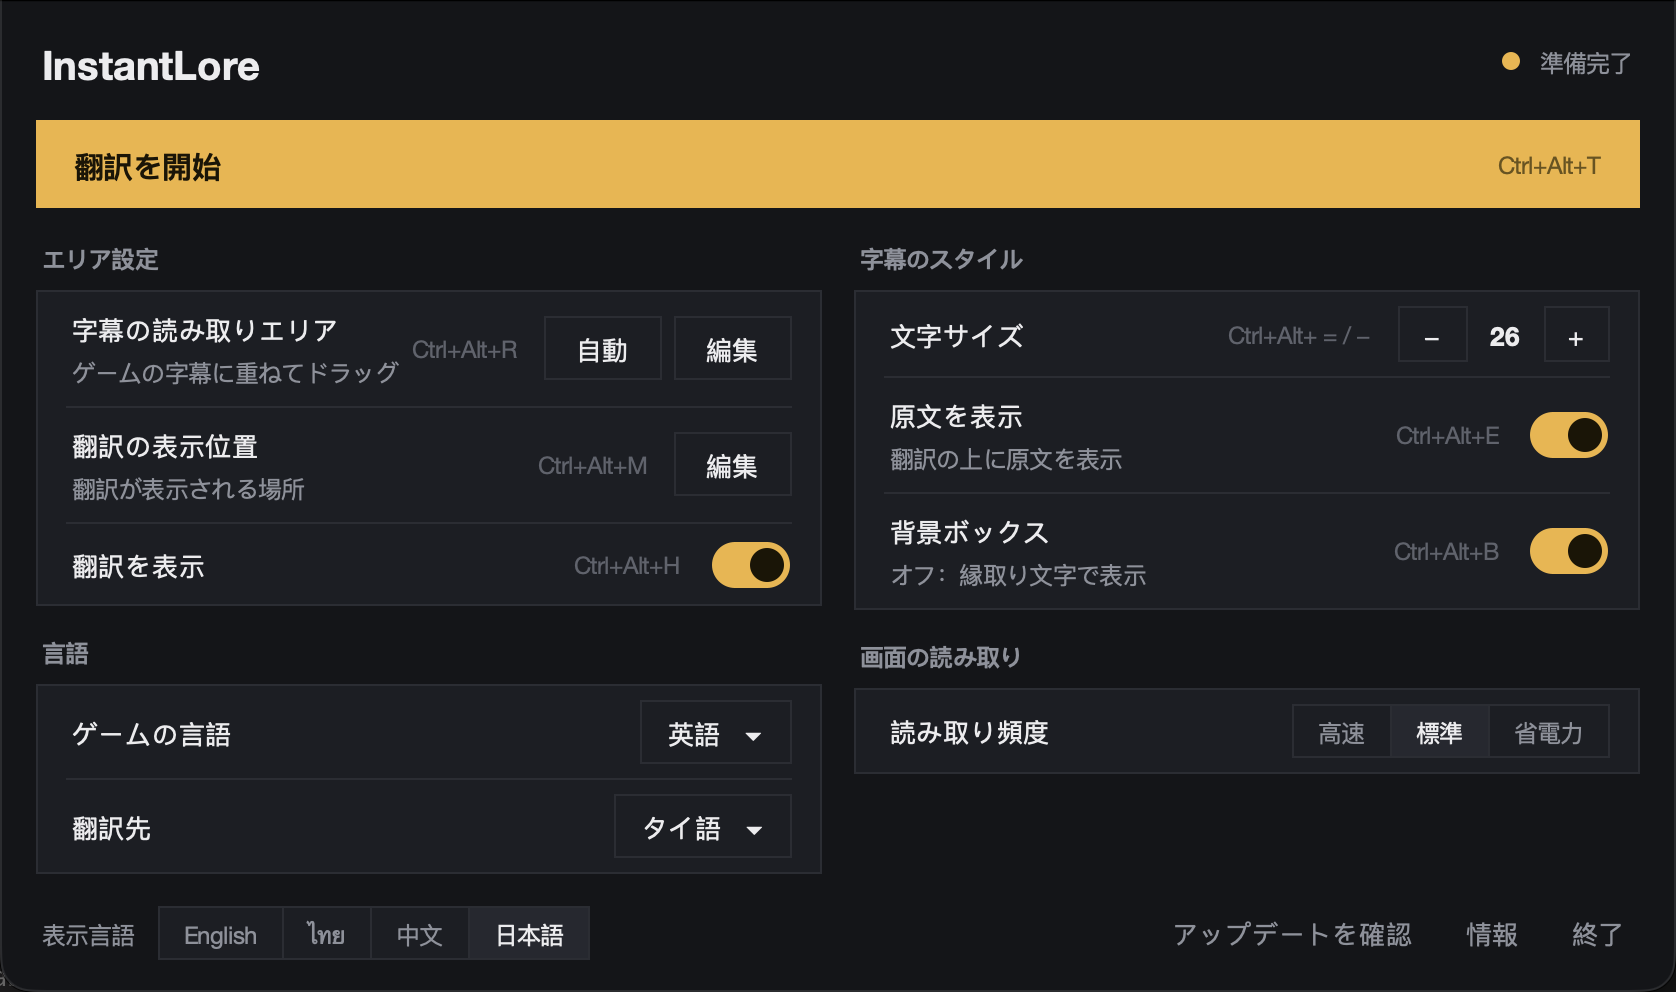
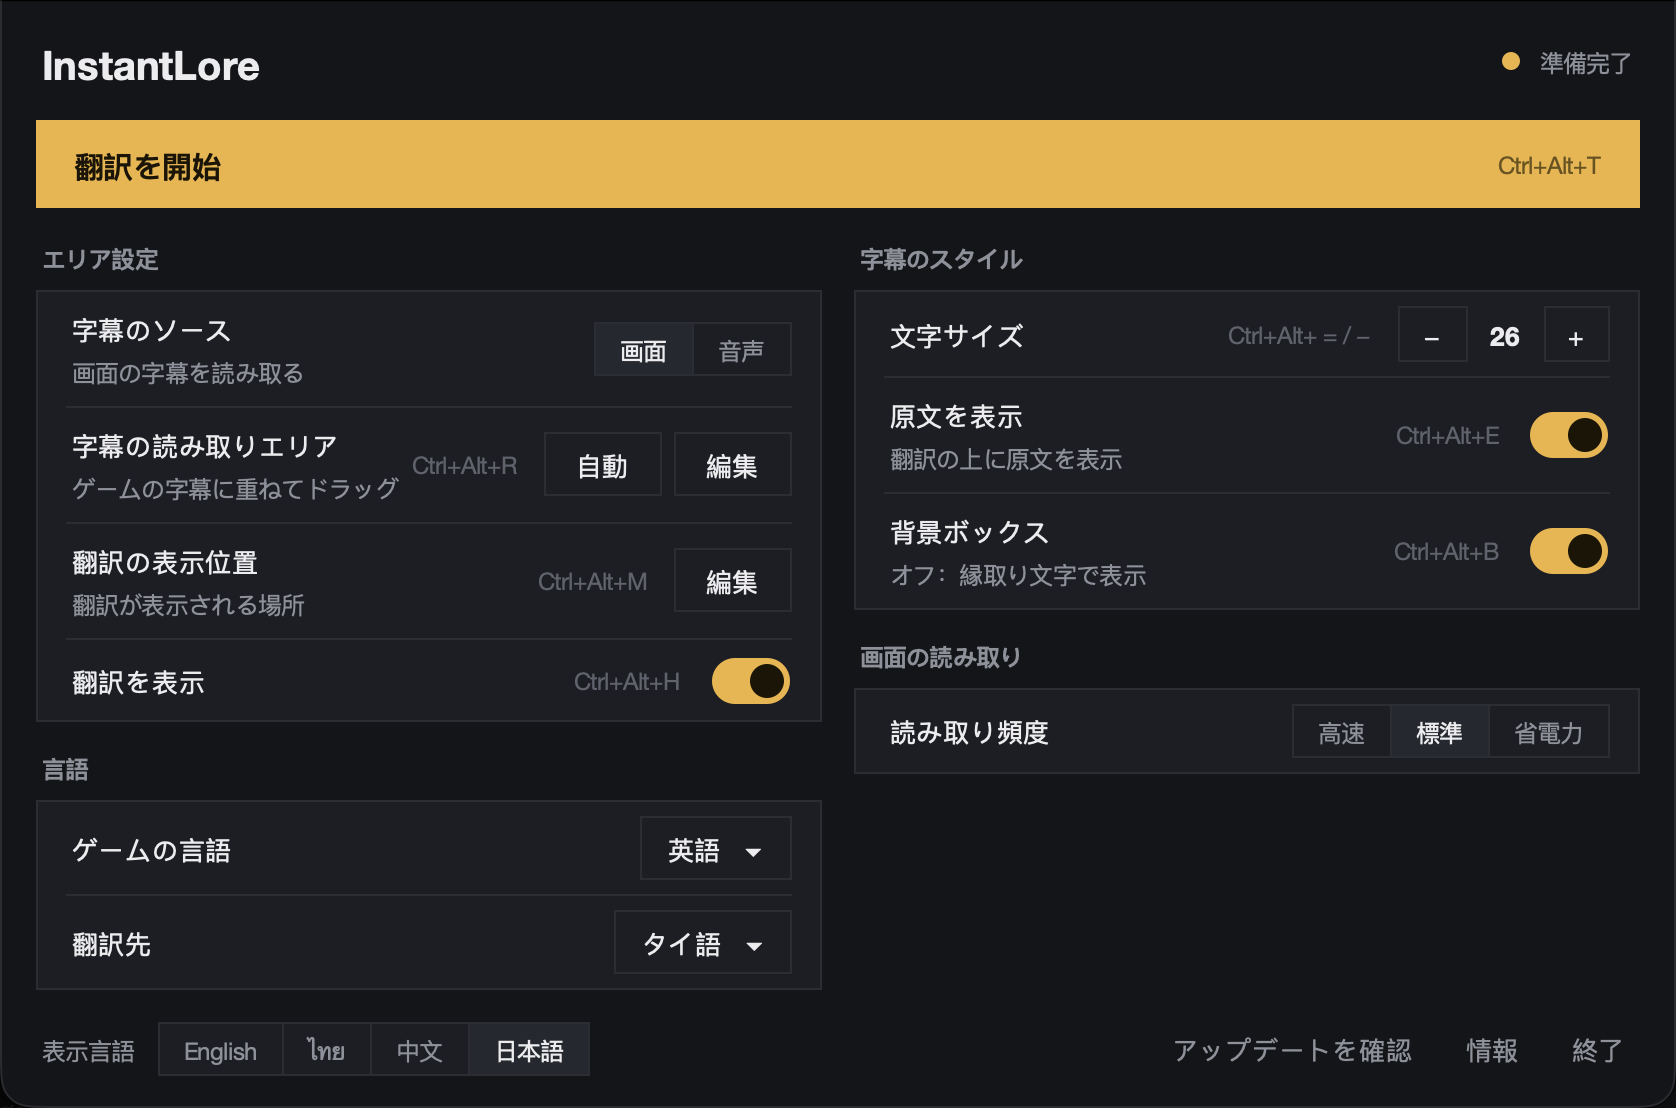
InstantLore 1.4.0: Listen mode via Windows 11 Live Captions
- New "Subtitles from: Screen / Listen" switch. Listen opens Windows
  Live Captions, reads its text through UI Automation, and translates
  each finished sentence (or a phrase after a 2 s pause)
- CaptionTracker skips sentences already translated, including ones
  Live Captions revises or keeps on screen
- Exe self-test now also loads UI Automation
- README: Listen mode section

diff --git a/mac/main.swift b/mac/main.swift
@@ -11,7 +11,7 @@ import Translation
 // MARK: - App info / languages
 
 let appName = "InstantLore"
-let appVersion = "1.3.1"
+let appVersion = "1.4.0"
 let developer = "Soulrose"
 
 /// code = รหัส Google, vision = ภาษาสำหรับ OCR ([] = ตรวจอัตโนมัติ), apple = รหัส Apple Translation (nil = ใช้ไม่ได้)

diff --git a/windows/instantlore.py b/windows/instantlore.py
@@ -24,7 +24,7 @@ from pathlib import Path
 
 IS_WIN = sys.platform == "win32"
 APP_NAME = "InstantLore"
-APP_VERSION = "1.3.1"
+APP_VERSION = "1.4.0"
 DEVELOPER = "Soulrose"
 REPO = "soulrose/instantlore"
 
@@ -126,6 +126,11 @@ STRINGS = {
         "st_reload": "Loading reader for {lang}…", "st_error": "Error: {e}",
         "st_ocr_fail": "Couldn't load the text reader: {e}",
         "st_no_keys": "Hotkeys unavailable, use this window",
+        "source": "Subtitles from", "source_hint_screen": "Reads the subtitles on screen", "source_hint_listen": "Listens to speech with Windows Live Captions",
+        "src_screen": "Screen", "src_listen": "Listen",
+        "st_listen": "Listening", "st_lc_start": "Starting Live Captions…",
+        "st_lc_missing": "Listen mode needs Windows 11 (22H2 or later) with Live Captions",
+        "st_lc_fail": "Couldn't read Live Captions: {e}",
         "box_keys": "Ctrl+Alt+arrows: move · Ctrl+Alt+Shift+arrows: resize",
         "st_black": "Can't see the game. Set it to Borderless or Windowed fullscreen",
         "box_region": "① Capture area: drag over the game's subtitles · Ctrl+Alt+R when done",
@@ -165,6 +170,11 @@ STRINGS = {
         "st_reload": "กำลังโหลดตัวอ่านภาษา{lang}…", "st_error": "ผิดพลาด: {e}",
         "st_ocr_fail": "โหลดตัวอ่านข้อความไม่ได้: {e}",
         "st_no_keys": "ปุ่มลัดใช้ไม่ได้ ใช้ปุ่มในหน้าต่างนี้แทน",
+        "source": "แปลจาก", "source_hint_screen": "อ่านซับที่ขึ้นบนจอ", "source_hint_listen": "ฟังเสียงพูดผ่าน Live Captions ของ Windows",
+        "src_screen": "จอ", "src_listen": "เสียง",
+        "st_listen": "กำลังฟัง", "st_lc_start": "กำลังเปิด Live Captions…",
+        "st_lc_missing": "โหมดฟังเสียงต้องใช้ Windows 11 (22H2 ขึ้นไป) ที่มี Live Captions",
+        "st_lc_fail": "อ่าน Live Captions ไม่ได้: {e}",
         "box_keys": "Ctrl+Alt+ลูกศร: เลื่อน · Ctrl+Alt+Shift+ลูกศร: ปรับขนาด",
         "st_black": "มองไม่เห็นเกม ให้ตั้งเกมเป็น Borderless หรือ Windowed fullscreen",
         "box_region": "① กล่องอ่านซับ: ลากครอบซับในเกม · กด Ctrl+Alt+R เมื่อเสร็จ",
@@ -203,6 +213,11 @@ STRINGS = {
         "st_reload": "正在加载{lang}识别…", "st_error": "错误：{e}",
         "st_ocr_fail": "无法加载文字识别：{e}",
         "st_no_keys": "快捷键不可用，请使用此窗口",
+        "source": "字幕来源", "source_hint_screen": "读取屏幕上的字幕", "source_hint_listen": "通过 Windows 实时辅助字幕收听语音",
+        "src_screen": "屏幕", "src_listen": "语音",
+        "st_listen": "正在收听", "st_lc_start": "正在启动实时辅助字幕…",
+        "st_lc_missing": "语音模式需要带实时辅助字幕的 Windows 11（22H2 或更高版本）",
+        "st_lc_fail": "无法读取实时辅助字幕：{e}",
         "box_keys": "Ctrl+Alt+方向键：移动 · Ctrl+Alt+Shift+方向键：调整大小",
         "st_black": "看不到游戏画面。请将游戏设为无边框或窗口化全屏",
         "box_region": "① 字幕读取区域：拖动框住游戏字幕 · 完成后按 Ctrl+Alt+R",
@@ -241,6 +256,11 @@ STRINGS = {
         "st_reload": "{lang}の認識を読み込み中…", "st_error": "エラー：{e}",
         "st_ocr_fail": "文字認識を読み込めません：{e}",
         "st_no_keys": "ショートカットが使えません。このウィンドウを使ってください",
+        "source": "字幕のソース", "source_hint_screen": "画面の字幕を読み取る", "source_hint_listen": "Windows のライブキャプションで音声を聞き取る",
+        "src_screen": "画面", "src_listen": "音声",
+        "st_listen": "聞き取り中", "st_lc_start": "ライブキャプションを起動中…",
+        "st_lc_missing": "音声モードにはライブキャプション付きの Windows 11（22H2 以降）が必要です",
+        "st_lc_fail": "ライブキャプションを読み取れません：{e}",
         "box_keys": "Ctrl+Alt+矢印：移動 · Ctrl+Alt+Shift+矢印：サイズ変更",
         "st_black": "ゲーム画面が見えません。ボーダーレスまたはウィンドウ化フルスクリーンにしてください",
         "box_region": "① 読み取りエリア：ゲームの字幕に重ねてドラッグ · 完了したら Ctrl+Alt+R",
@@ -290,6 +310,7 @@ DEFAULTS = {
     "src_lang": "en",   # ภาษาของเกม
     "dst_lang": "th",   # ภาษาที่จะแปลเป็น
     "ui_lang": "",      # ภาษาของโปรแกรม: en / th / zh / ja, ว่าง = ตามภาษาของเครื่อง
+    "mode": "screen",   # screen = อ่านซับจากจอ, listen = ฟังเสียงผ่าน Live Captions ของ Windows 11
     "close_action": "ask",  # กดปุ่ม X: ask = ถามทุกครั้ง, minimize = ย่อ, quit = ปิดโปรแกรม
 }
 KEY = "#010203"  # สีนี้จะโปร่งใส
@@ -470,6 +491,114 @@ class Translator:
                          {"client": "dict-chrome-ex", "sl": sl, "tl": tl, "q": text})
         first = data[0]
         return first if isinstance(first, str) else first[0]
+
+
+def live_captions_supported():
+    """Live Captions มีใน Windows 11 22H2 (build 22621) ขึ้นไป"""
+    return IS_WIN and sys.getwindowsversion().build >= 22621
+
+
+class LiveCaptions:
+    """อ่านข้อความจาก Live Captions ผ่าน UI Automation
+    (หน้าต่างคลาส LiveCaptionsDesktopWindow, ข้อความอยู่ใน AutomationId "CaptionsTextBlock")"""
+
+    def __init__(self):
+        self.window = None
+        self.textblock = None
+        self.hwnd = 0
+        self.launched = False
+
+    def session(self):
+        import uiautomation as auto
+        return auto.UIAutomationInitializerInThread()  # UI Automation ต้องเริ่ม COM ในเธรดที่ใช้งาน
+
+    def _find(self):
+        import uiautomation as auto
+        w = auto.WindowControl(searchDepth=1, ClassName="LiveCaptionsDesktopWindow")
+        return w if w.Exists(0, 0) else None
+
+    def start(self, timeout=15):
+        import subprocess
+        self.window = self._find()
+        if self.window is None:
+            subprocess.Popen(["LiveCaptions.exe"], creationflags=getattr(subprocess, "CREATE_NO_WINDOW", 0))
+            self.launched = True
+            t0 = time.time()
+            while self.window is None and time.time() - t0 < timeout:
+                time.sleep(0.3)
+                self.window = self._find()
+            if self.window is None:
+                raise RuntimeError("Live Captions window not found")
+        self.textblock = self.window.Control(searchDepth=12, AutomationId="CaptionsTextBlock")
+        self.hwnd = self.window.NativeWindowHandle
+        self._hide()
+
+    def text(self):
+        try:
+            return self.textblock.Name if self.textblock and self.textblock.Exists(0, 0) else ""
+        except Exception:
+            return ""
+
+    def _hide(self):
+        # ย่อหน้าต่างและเอาออกจาก taskbar (Live Captions ยังทำงานต่อ)
+        u = ctypes.windll.user32
+        st = u.GetWindowLongW(self.hwnd, GWL_EXSTYLE)
+        u.SetWindowLongW(self.hwnd, GWL_EXSTYLE, st | WS_EX_TOOLWINDOW)
+        u.ShowWindow(self.hwnd, 6)  # SW_MINIMIZE
+
+    def restore(self):
+        if not self.hwnd:
+            return
+        try:
+            u = ctypes.windll.user32
+            st = u.GetWindowLongW(self.hwnd, GWL_EXSTYLE)
+            u.SetWindowLongW(self.hwnd, GWL_EXSTYLE, st & ~WS_EX_TOOLWINDOW)
+            if self.launched:
+                u.PostMessageW(self.hwnd, 0x0010, 0, 0)  # WM_CLOSE: เราเปิดเอง ก็ปิดให้
+            else:
+                u.ShowWindow(self.hwnd, 9)  # SW_RESTORE: ผู้ใช้เปิดไว้เอง คืนให้เหมือนเดิม
+        except Exception:
+            pass
+
+
+SENTENCE_END = re.compile(r"[^.!?。？！]*[.!?。？！]+[\"')\]」』]*")
+
+
+class CaptionTracker:
+    """แยกประโยคจากข้อความของ Live Captions (ข้อความสะสมยาวๆ ที่ประโยคท้ายๆ ถูกแก้ได้เรื่อยๆ)
+
+    feed() คืนประโยคใหม่ที่พูดจบแล้ว ส่วนประโยคที่ยังพูดไม่จบ ถ้าเงียบไป `pause` วินาทีก็นับว่าจบ
+    """
+
+    def __init__(self, pause=2.0, min_words=3):
+        self.pause, self.min_words = pause, min_words
+        self.done = []            # ประโยคที่ส่งแปลไปแล้ว (ล่าสุด)
+        self.partial = ""
+        self.partial_since = 0.0
+
+    def _seen(self, sentence):
+        k = norm(sentence)
+        return not k or any(similar(k, norm(d)) or k in norm(d) for d in self.done[-30:])
+
+    def _emit(self, sentence, out):
+        if not self._seen(sentence):
+            out.append(sentence)
+            self.done = (self.done + [sentence])[-60:]
+
+    def feed(self, text, now):
+        text = re.sub(r"\s+", " ", text or "").strip()
+        out = []
+        sentences = [m.group(0).strip() for m in SENTENCE_END.finditer(text)]
+        tail = text[sum(len(m.group(0)) for m in SENTENCE_END.finditer(text)):].strip() if sentences else text
+        # ดูแค่ 3 ประโยคท้าย (ข้อความเก่ากว่านั้นแปลไปแล้ว หรือหลุดจากจอ Live Captions ไปแล้ว)
+        for sent in sentences[-3:]:
+            if len(sent.split()) >= 1:
+                self._emit(sent, out)
+        if tail != self.partial:
+            self.partial, self.partial_since = tail, now
+        elif tail and now - self.partial_since >= self.pause and len(tail.split()) >= self.min_words:
+            self._emit(tail, out)
+        return out
 
 
 def screen_is_black(bgra):
@@ -955,6 +1084,11 @@ class App:
             return card
 
         card = section("sec_setup", left)
+        listen = self.cfg.get("mode") == "listen"
+        row = card.row(self.t("source"), self.t("source_hint_listen" if listen else "source_hint_screen"))
+        self.w_mode = Segmented(row, [("screen", self.t("src_screen")), ("listen", self.t("src_listen"))],
+                                self.cfg.get("mode", "screen"), self.set_mode)
+        self.w_mode.pack(side="left")
         row = card.row(self.t("capture"), self.t("capture_hint"), "Ctrl+Alt+R")
         Button(row, self.t("auto"), self.auto_detect, pad=(12, 4)).pack(side="left", padx=(0, 6))
         self.region_btn = Button(row, self.t("done" if self.region.editing else "edit"), self.toggle_region, pad=(12, 4))
@@ -1262,12 +1396,32 @@ class App:
             if self.sub.editing:
                 self.toggle_sub()
             self.run_btn.set(self.t("stop"), "secondary")
-            self.set_status("st_running", "good")
-            threading.Thread(target=self.worker, daemon=True).start()
+            if self.cfg.get("mode") == "listen":
+                self.set_status("st_lc_start", "ready")
+                threading.Thread(target=self.listen_worker, daemon=True).start()
+            else:
+                self.set_status("st_running", "good")
+                threading.Thread(target=self.worker, daemon=True).start()
         else:
             self.run_btn.set(self.t("start"), "primary")
             self.set_status("st_stopped")
             self.sub.show("", "")
+
+    def stop_with(self, key, **kw):
+        """หยุดแปล แล้วบอกเหตุผล (ไม่ให้สถานะ "หยุดอยู่" ทับข้อความ)"""
+        if self.running:
+            self.toggle_run()
+        self.set_status(key, "bad", **kw)
+
+    def set_mode(self, v):
+        was_running = self.running
+        if was_running:
+            self.toggle_run()
+        self.cfg["mode"] = v
+        save_config(self.cfg)
+        self.build_panel()
+        if was_running:
+            self.toggle_run()
 
     def set_close_action(self, v):
         self.cfg["close_action"] = v
@@ -1356,6 +1510,35 @@ class App:
         except Exception as e:
             self.ui_q.put(("status", ("st_ocr_fail", "bad", {"e": e})))
 
+    # ---------- โหมดฟังเสียง (Live Captions ของ Windows 11)
+    def listen_worker(self):
+        """เปิด Live Captions แล้วอ่านข้อความทุก 0.25 วิ แปลเฉพาะประโยคที่พูดจบ"""
+        if not live_captions_supported():
+            self.ui_q.put(("call", lambda: self.stop_with("st_lc_missing")))
+            return
+        lc = LiveCaptions()
+        try:
+            with lc.session():
+                lc.start()
+                self.ui_q.put(("status", ("st_listen", "good", {})))
+                tracker = CaptionTracker()
+                last_shown = 0.0
+                while self.running:
+                    now = time.time()
+                    for sentence in tracker.feed(lc.text(), now):
+                        th = self.tr.translate(sentence)
+                        if self.running:
+                            self.ui_q.put(("sub", (sentence, th)))
+                            last_shown = now
+                    if last_shown and now - last_shown > 6 and not tracker.partial:
+                        self.ui_q.put(("sub", ("", "")))  # เงียบนานแล้ว ซ่อนซับ
+                        last_shown = 0.0
+                    time.sleep(0.25)
+        except Exception as e:
+            self.ui_q.put(("call", lambda e=e: self.stop_with("st_lc_fail", e=e)))
+        finally:
+            lc.restore()
+
     def worker(self):
         import mss
         import numpy as np
@@ -1434,6 +1617,10 @@ def selftest(out_path):
         ocr = OCR("en")
         img = np.full((120, 800, 3), 60, np.uint8)
         ocr.read(img)
+        if IS_WIN:  # โหมดฟังเสียงใช้ UI Automation: เช็กว่าโหลดได้ใน exe
+            import uiautomation as auto
+            with auto.UIAutomationInitializerInThread():
+                auto.GetRootControl().Name
         result = "ok"
     except Exception as e:
         result = f"fail: {e!r}"

diff --git a/README.md b/README.md
@@ -1,6 +1,6 @@
 # InstantLore
 
-Version 1.3.1 · Developed by **Soulrose**
+Version 1.4.0 · Developed by **Soulrose**
 
 ![InstantLore](docs/screenshot-en.png)
 
@@ -33,6 +33,15 @@ On first launch InstantLore downloads a small text-recognition model, so it need
    To place it by hand instead, click **Edit** and drag the box over the subtitles; drag the bottom-right corner to resize it.
 2. Click **Edit** next to **Subtitle position** and drag the green box ② to where you want the translation to appear.
 3. Click **Start translating**, or press **Ctrl+Alt+T**.
+
+### Games without subtitles: Listen mode (Windows 11)
+
+Set **Subtitles from** to **Listen**. InstantLore then uses Windows 11's built-in **Live Captions** to turn the game's speech into text, and translates each sentence as soon as it's spoken. It adds almost no load, because Windows does the speech recognition.
+
+- Needs Windows 11 22H2 or later. InstantLore opens Live Captions for you and minimizes its window while listening.
+- The first time, Windows may ask you to download the Live Captions language. Choose the spoken language in Live Captions' own settings (English works best).
+- Lower the game's music and effects volume, or raise the dialogue volume, for better recognition. Battle noise causes mistakes.
+- Listen mode is Windows only; the Mac version reads the screen.
 
 ### Fullscreen games
 
